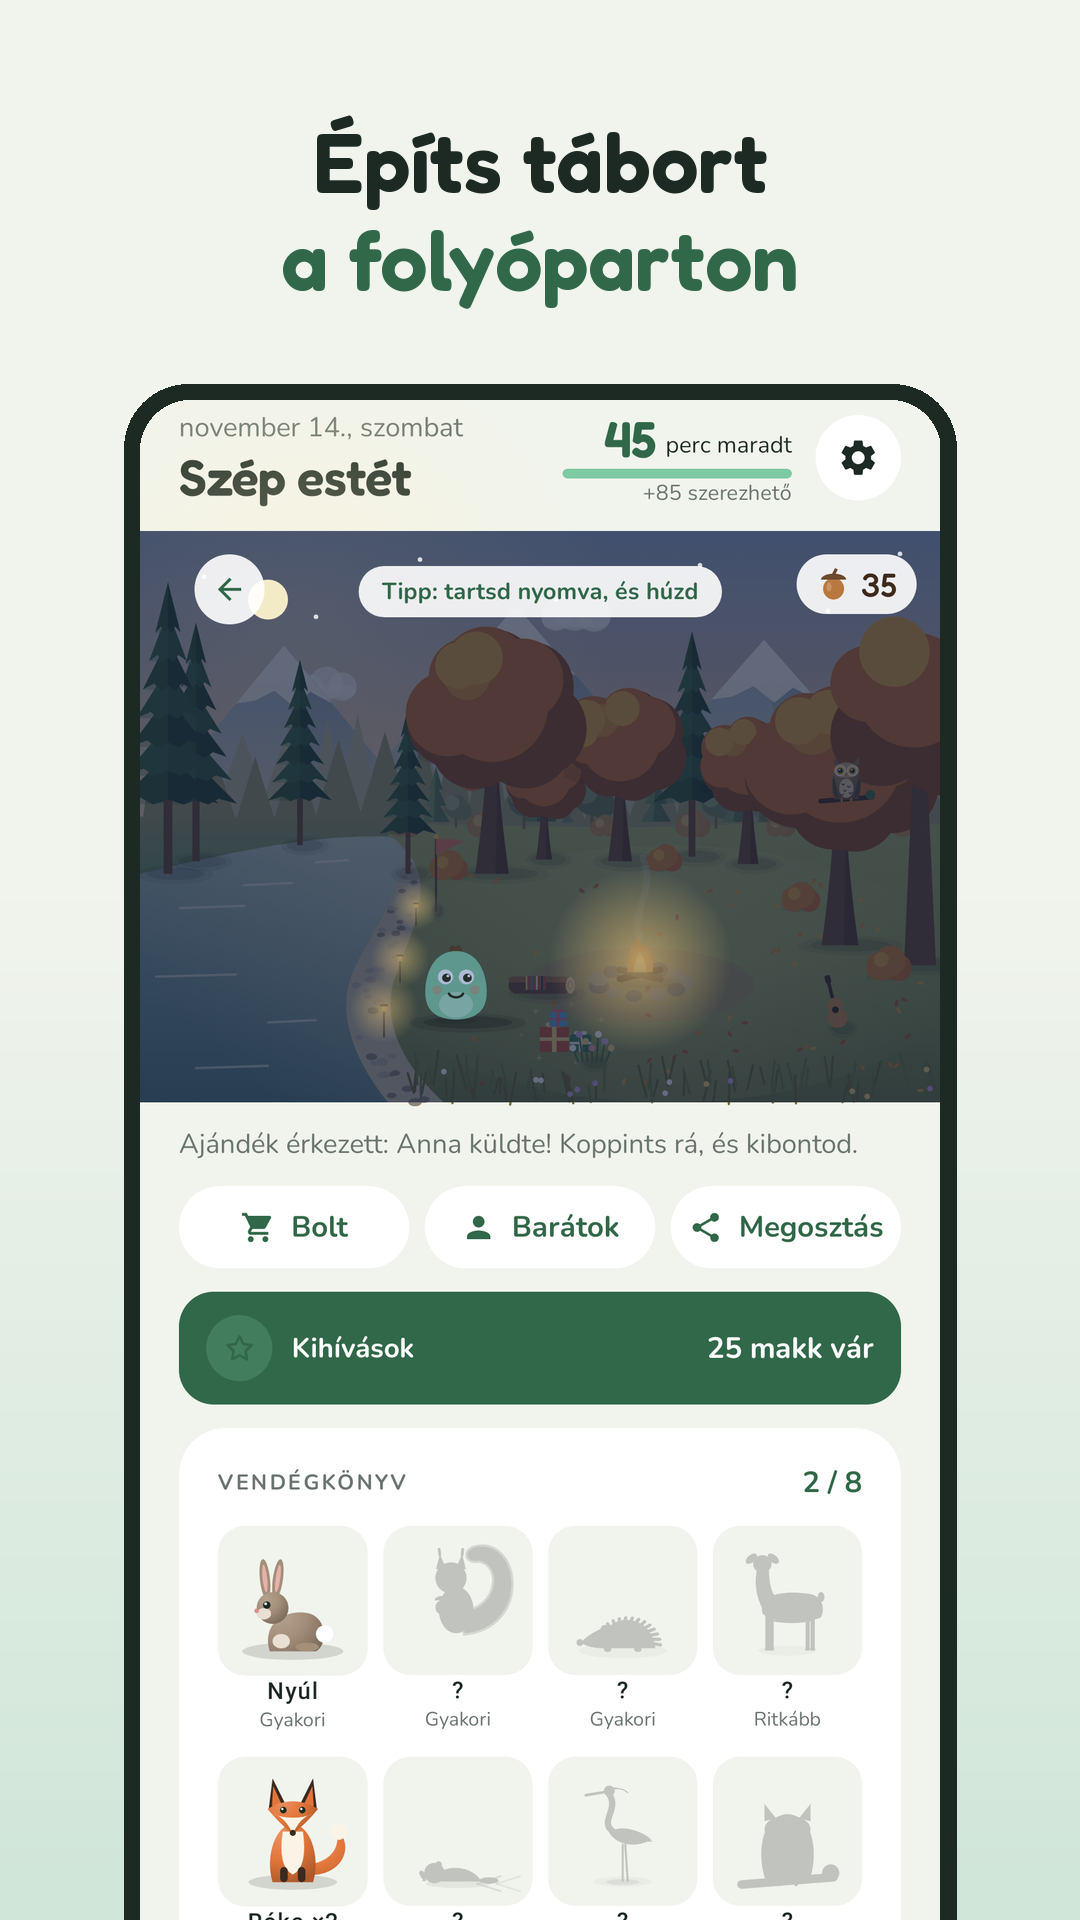
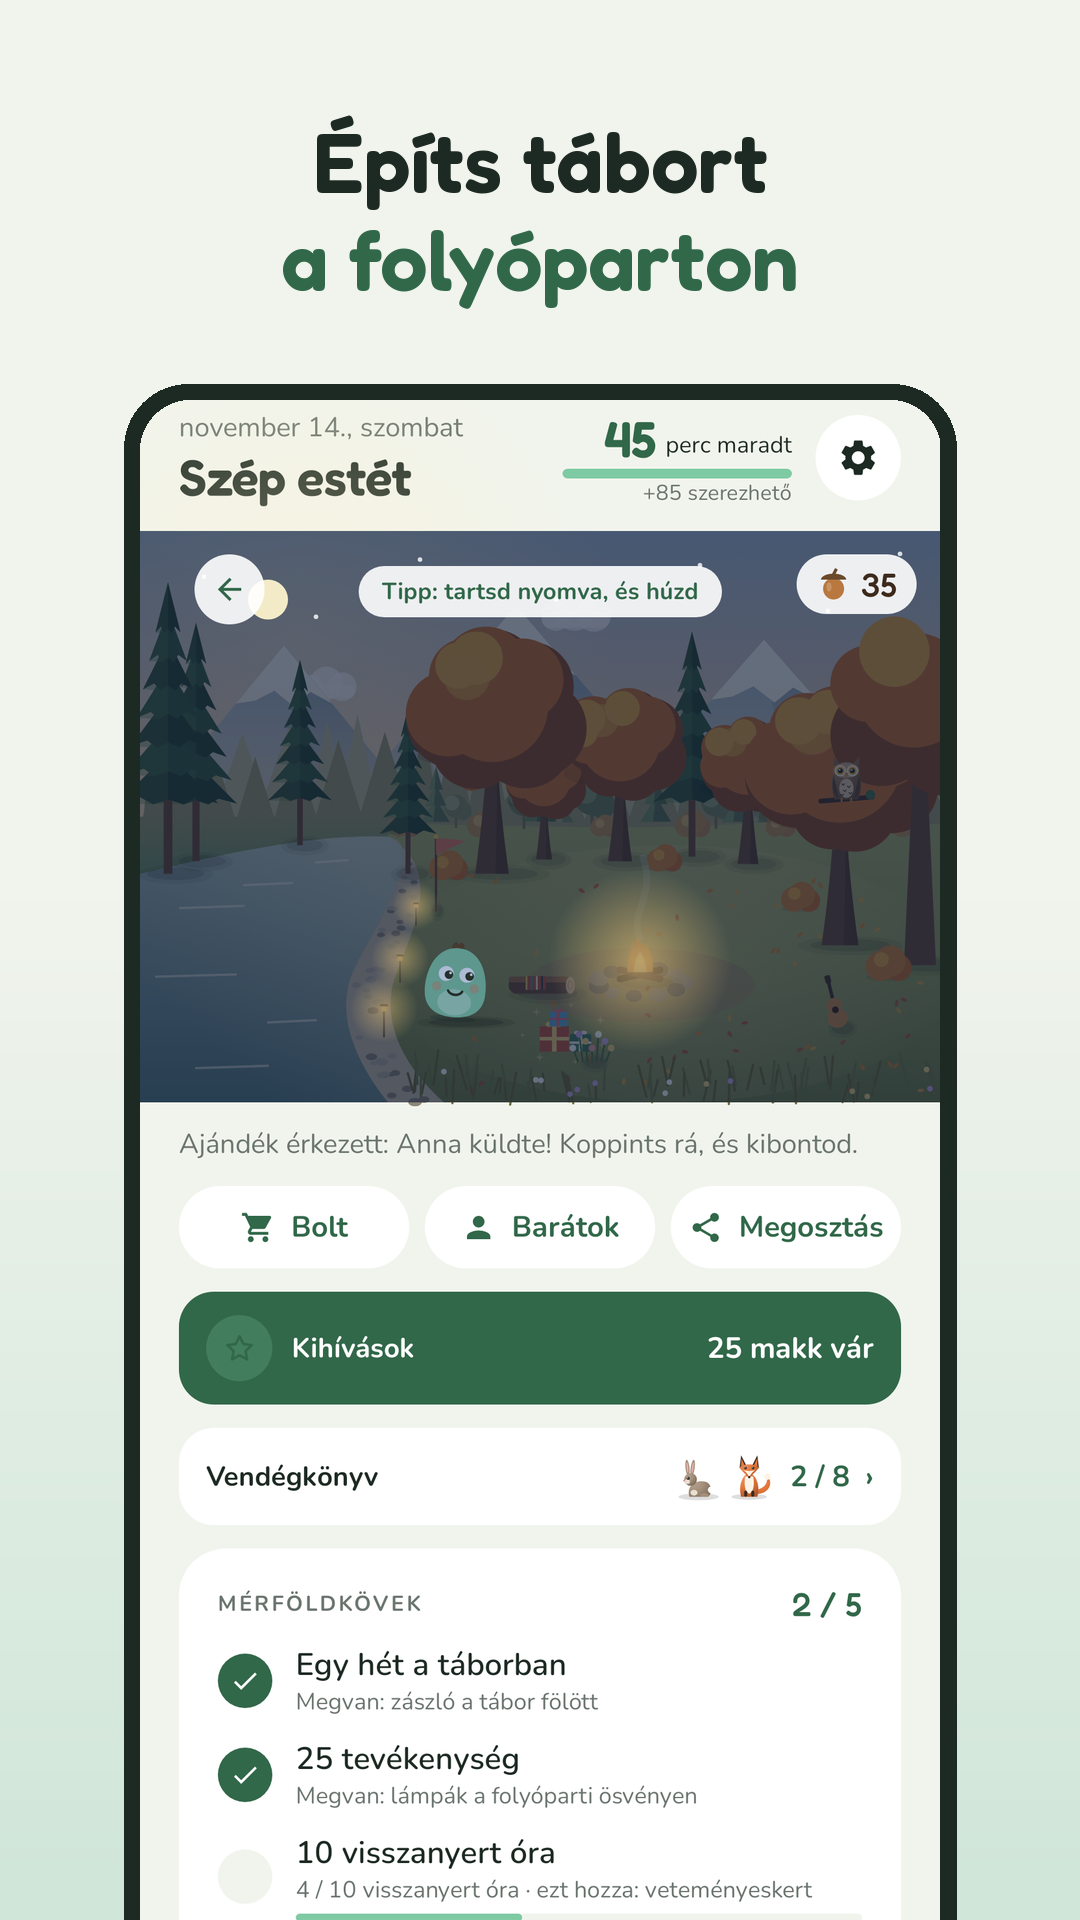
Guestbook opens from one row; animals without counts
Claude-Session: https://claude.ai/code/session_01MTi4pGbYj2mqQd4T7JQAzY

diff --git a/app/src/main/java/app/tend/ui/ClearingScreen.kt b/app/src/main/java/app/tend/ui/ClearingScreen.kt
@@ -159,6 +159,7 @@ fun ClearingScreen(
     var friendsOpen by rememberSaveable { mutableStateOf(openInvite) }
     androidx.compose.runtime.LaunchedEffect(openInvite) { if (openInvite) friendsOpen = true }
     var shopOpen by rememberSaveable { mutableStateOf(false) }
+    var bookOpen by rememberSaveable { mutableStateOf(false) }
     var collectionAt by remember { androidx.compose.runtime.mutableIntStateOf(0) }
 
     // The same header as home, settings and all (nothing moves going between them).
@@ -662,7 +663,7 @@ fun ClearingScreen(
     }
 
     Column(Modifier.onGloballyPositioned { collectionAt = it.positionInParent().y.toInt() }.pageBody(), verticalArrangement = Arrangement.spacedBy(Space.m)) {
-        Guestbook(guestbook)
+        GuestbookRow(guestbook) { bookOpen = true }
         totals?.let { MilestonesCard(it) }
         Things(avatar, worn, onShelf, earned, onToggleAccessory)
     }
@@ -685,6 +686,10 @@ fun ClearingScreen(
     }
 
     // Friends: over the page, from the bottom.
+    if (bookOpen) androidx.compose.material3.ModalBottomSheet(onDismissRequest = { bookOpen = false }, containerColor = Brand.Sage) {
+        Column(Modifier.verticalScroll(rememberScrollState()).padding(horizontal = 20.dp).padding(bottom = Space.xl)) { Guestbook(guestbook) }
+    }
+
     if (friendsOpen) androidx.compose.material3.ModalBottomSheet(onDismissRequest = { friendsOpen = false }, containerColor = Brand.Sage) {
         Column(Modifier.verticalScroll(rememberScrollState()).padding(horizontal = 20.dp).padding(bottom = Space.xl)) {
             FriendsCard(onOpenSettings, onOpenRiver, onFriendsChanged, openInvite)
@@ -984,7 +989,19 @@ private fun GreetedCard(v: app.tend.core.Visitor, book: Map<app.tend.core.Visito
     }
 }
 
-/** The animals that came to the camp: seen ones in colour with how often, the rest as shadows, four to a row. */
+/** The guestbook, closed: how many animals came, the ones met as small icons; tap to open. */
+@Composable
+private fun GuestbookRow(book: Map<app.tend.core.Visitor, Int>, onOpen: () -> Unit) = Row(
+    Modifier.fillMaxWidth().clip(RoundedCornerShape(18.dp)).background(Brand.Card).tappable(onClick = onOpen).padding(horizontal = 14.dp, vertical = 12.dp),
+    verticalAlignment = Alignment.CenterVertically,
+) {
+    Text(tr("Guestbook", "Vendégkönyv"), style = MaterialTheme.typography.labelLarge.copy(fontSize = 14.sp), modifier = Modifier.weight(1f))
+    app.tend.core.Visitor.entries.filter { it in book }.take(4).forEach { v -> Canvas(Modifier.size(26.dp)) { drawVisitorIcon(v) } }
+    Spacer(Modifier.width(8.dp))
+    Text("${book.size} / ${app.tend.core.Visitor.entries.size}  \u203A", style = MaterialTheme.typography.labelLarge, color = Brand.Moss)
+}
+
+/** The animals that came to the camp: seen ones in colour, the rest as shadows, four to a row. */
 @Composable
 private fun Guestbook(book: Map<app.tend.core.Visitor, Int>) {
     Card {
@@ -1000,7 +1017,7 @@ private fun Guestbook(book: Map<app.tend.core.Visitor, Int>) {
                         Box(Modifier.fillMaxWidth().aspectRatio(1f).clip(RoundedCornerShape(14.dp)).background(Brand.Sage), contentAlignment = Alignment.Center) {
                             Canvas(Modifier.fillMaxSize().padding(6.dp)) { drawVisitorIcon(v, seen = n > 0) }
                         }
-                        Text(if (n > 0) v.title + if (n > 1) " ×$n" else "" else "?", style = MaterialTheme.typography.labelMedium, maxLines = 1)
+                        Text(if (n > 0) v.title else "?", style = MaterialTheme.typography.labelMedium, maxLines = 1)
                         Text(v.rarity.label, style = MaterialTheme.typography.bodyMedium.copy(fontSize = 10.sp), color = if (v.rare) Color(0xFFB9783F) else Brand.Muted)
                     }
                 }
